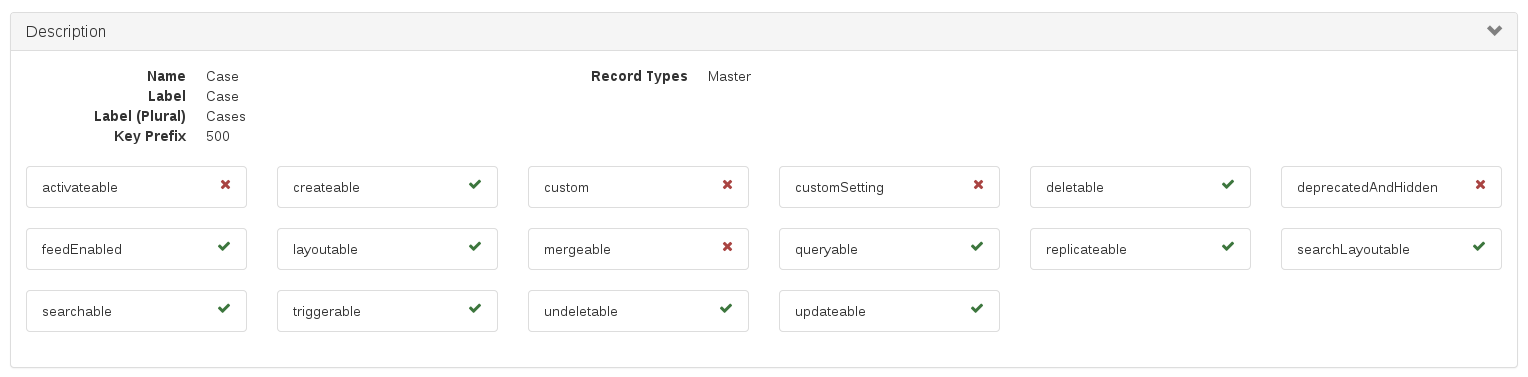
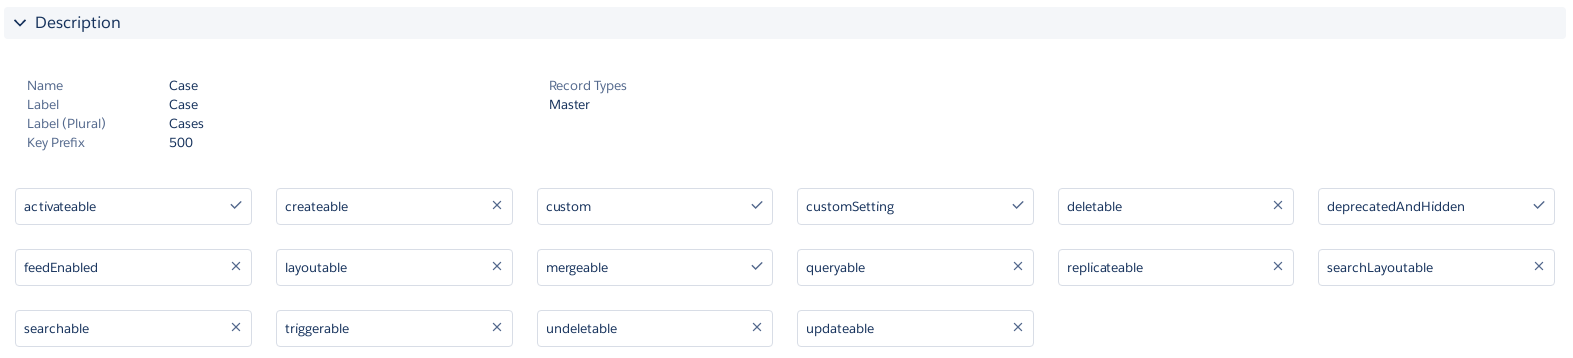
Updating images to SLDS and fixing formatting of readme file (Fixes #4)

diff --git a/objDesc/README.md b/objDesc/README.md
@@ -1,31 +1,31 @@
-#Object Describe Browser
+# Object Describe Browser
 
 When working with a large organization, you get to a point where you have so many objects and so many fields that it can be almost impossible to keep track of them all.  It can be very time consuming to dig through the setup menus to find field and relationship names.  To help combat this you can use [JSforce](https://jsforce.github.io/) and [Angular](https://angularjs.org/) to write a single page app to quickly visualize all of your objects and the information about them.
 
-###Metadata API
+### Metadata API
 The Metadata API can be a very powerful tool that can be used to describe lots of information about your organization's objects.  As great as the Metadata API is, it can be a very daunting thing to a new developer interacting with the platform.  This is why I chose to use [JSforce's](https://jsforce.github.io/document/#metadata-api) implementation of the Metadata API.  Not only can you easily use it from inside of VisualForce with Javascript, but you can also use it with [node.js](http://nodejs.org/), Canvas or my personal favorite way the command line.
 
-##A Tour
+## A Tour
 
-###Object List
+### Object List
 All of your objects are listed and quickly filterable
 
 ![Object List](https://raw.githubusercontent.com/pcon/SalesforceApps/master/documentation/img/objDesc_list.png)
 
-###Object Description
+### Object Description
 After selecting an object from the side nav bar you can see lots of information about the object
 
 ![Object Description](https://raw.githubusercontent.com/pcon/SalesforceApps/master/documentation/img/objDesc_description.png)
 
-###Object Fields
+### Object Fields
 All of the fields, their API name, type and description are also displayed and are filterable and sortable
 
 ![Object Fields](https://raw.githubusercontent.com/pcon/SalesforceApps/master/documentation/img/objDesc_fields.png)
 
-###Object Relationships
+### Object Relationships
 All of the related objects are also listed including the elusive relationship name
 
-![Object Relationships](https://raw.githubusercontent.com/pcon/SalesforceApps/master/documentation/img/objDesc_relathinship.png)
+![Object Relationships](https://raw.githubusercontent.com/pcon/SalesforceApps/master/documentation/img/objDesc_relationship.png)
 
 ## How to Install it
 
@@ -144,7 +144,7 @@ angular.module('objDescApp').controller('ObjectDetailCtrl', ['$scope', '$statePa
 ```
 The code is called when we have an object and we want to get it's information.  The `describe` method of JSforce returns all of the metadata for the requested object (stored in `$stateParams.name`).  This then gets stored as `$scope.current_object` for us to use in the display.
 
-##Conclusion
+## Conclusion
 This app shows how you can display lots of important data about your organizations metadata with very little effort.  With the framework setup here, the sky is the limit since you have almost full access to almost all of the APIs that the Salesforce platform offers.
 
 [JSforce Documentation](https://jsforce.github.io/document/)
